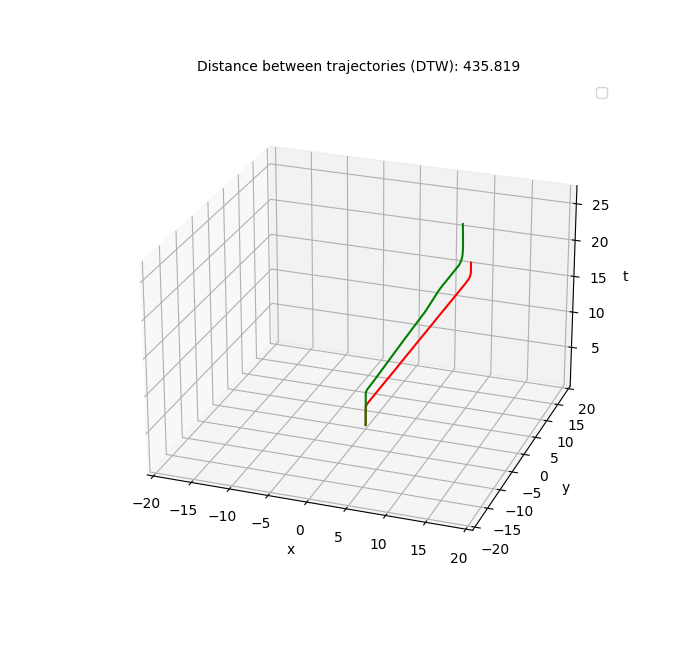
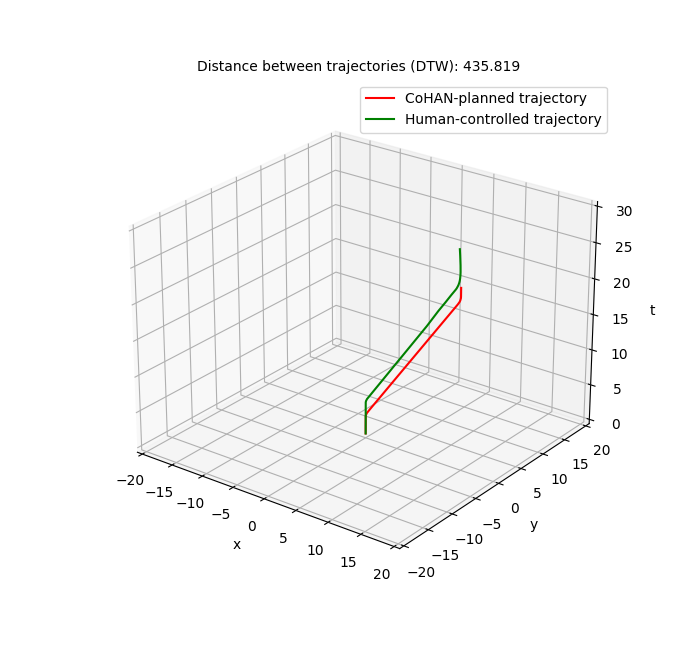
updates

diff --git a/navigation/dtw.py b/navigation/dtw.py
@@ -1,5 +1,8 @@
 import sys
 import math
+
+import matplotlib as mpl
+from mpl_toolkits.mplot3d import Axes3D
 import matplotlib.pyplot as plt
 import numpy as np
 
@@ -21,15 +24,17 @@ def dtw(t1, t2):
     return dtw
 
 def plot_trajectories(T1, T2, distance):
+    mpl.rcParams['legend.fontsize'] = 10
     fig = plt.figure(figsize=(7,7))
     ax = plt.axes(projection='3d')
-    plt.title(f"Distance between trajectories (DTW): {distance:.3f}", fontsize=10)
-    plt.xlabel('x')
-    plt.ylabel('y')
+    ax.set_title(f"Distance between trajectories (DTW): {distance:.3f}", fontsize=10)
+    ax.set_xlabel('x')
+    ax.set_ylabel('y')
     ax.set_zlabel('t')
-    plt.xlim((-20,20))
-    plt.ylim((-20,20))
-    plt.legend(['Human-controlled trajectory', 'CoHAN-planned trajectory'], fontsize=10)
+    ax.set_xlim((-20,20))
+    ax.set_ylim((-20,20))
+    ax.set_zlim((0,30))
+    ax.set_aspect('equal')
 
     x1, y1, t1 = [], [], []
     for elem in T1:
@@ -37,25 +42,25 @@ def plot_trajectories(T1, T2, distance):
         y1.append(elem[1])
         t1.append(elem[2])
 
+    ax.plot(x1,y1,t1,'red',label='CoHAN-planned trajectory')
+
     x2, y2, t2 = [], [], []
     for elem in T2:
         x2.append(elem[0])
         y2.append(elem[1])
         t2.append(elem[2])
 
-    ax.plot3D(x1,y1,t1,'red')
-    ax.plot3D(x2,y2,t2,'green')
+    ax.plot(x2,y2,t2,'green',label='Human-controlled trajectory')
 
-    ax.set_aspect('equal')
-
+    ax.legend()
     plt.show()
 
 
 fn1 = sys.argv[1]
 fn2 = sys.argv[2]
 
-f1 = open(fn1, "r")
-f2 = open(fn2, "r")
+f1 = open("trajs/"+fn1+".txt", "r")
+f2 = open("trajs/"+fn2+".txt", "r")
 
 # Trajectories (x,y)
 t1, t2 = [], []
@@ -86,5 +91,6 @@ t2 = np.array(t2)
 T2 = np.array(T2)
 
 dtw = dtw(t1,t2)
+print("DTW: " + str(dtw))
+print("\nPress CTRL+C to close the window...")
 plot_trajectories(T1,T2,dtw)
-print(dtw)
